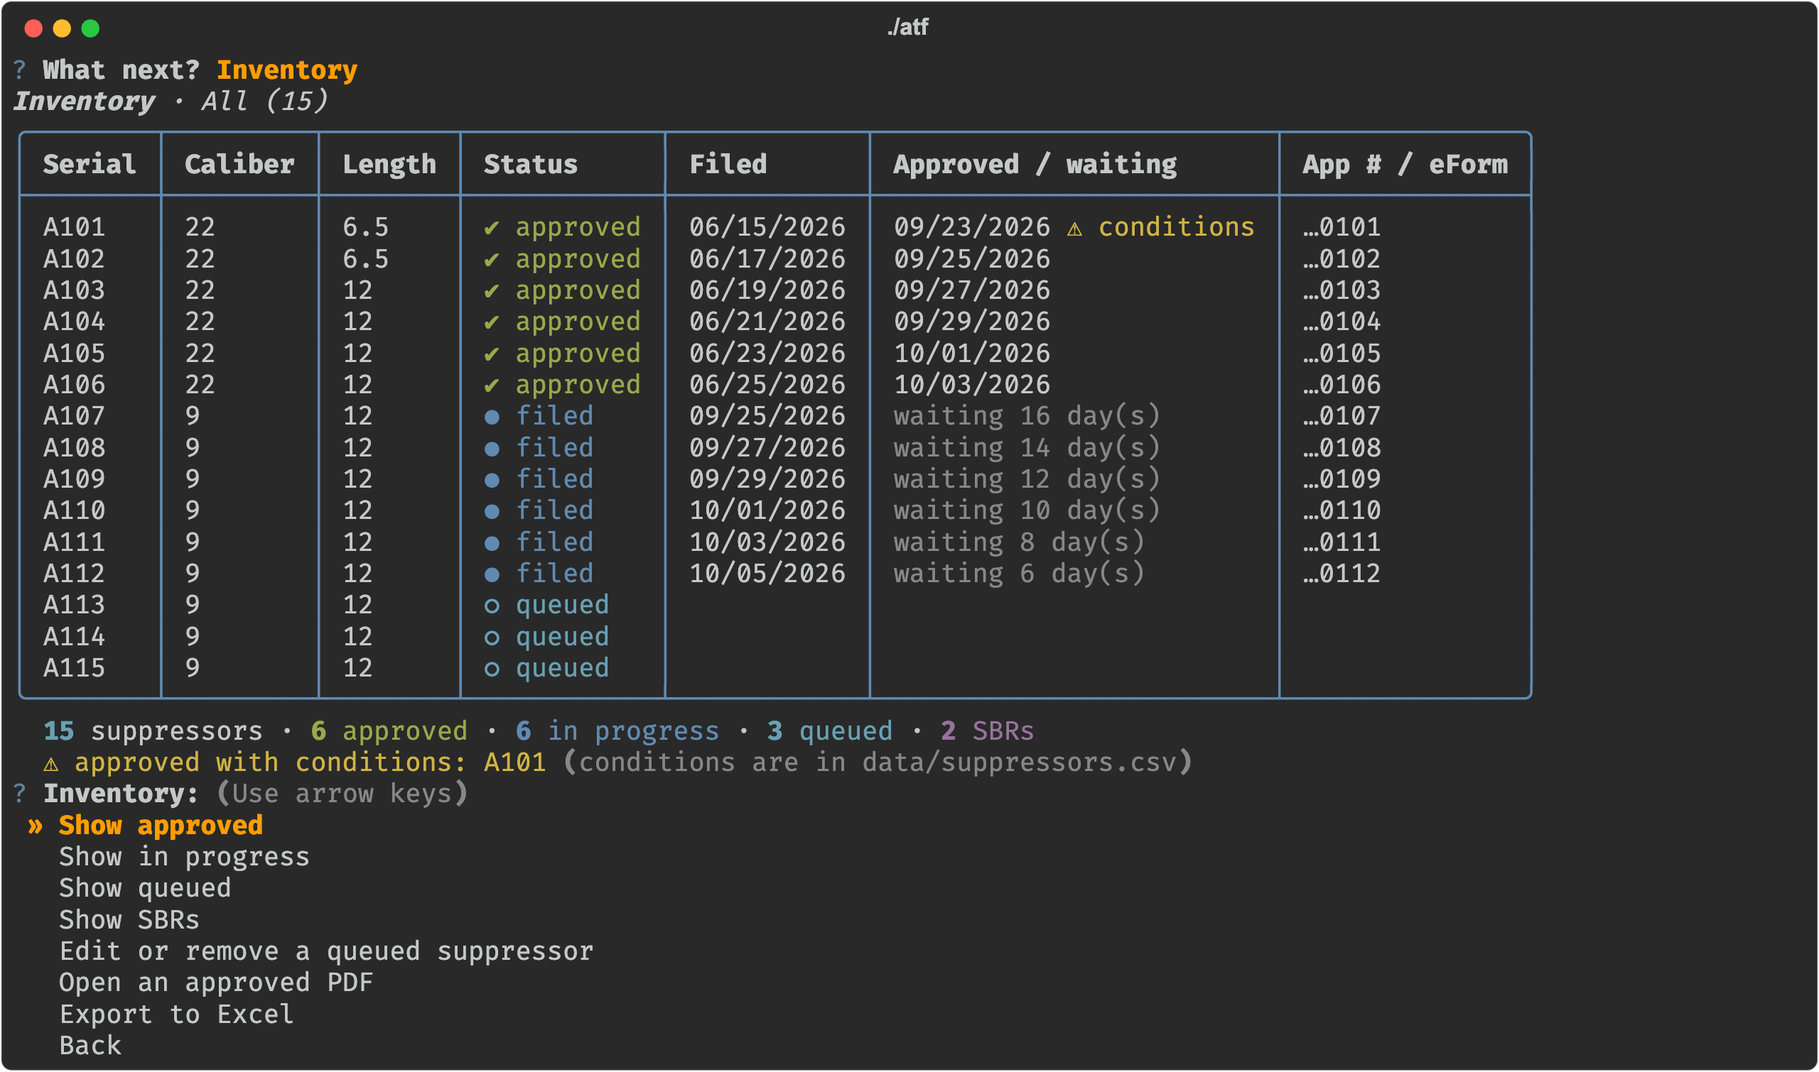
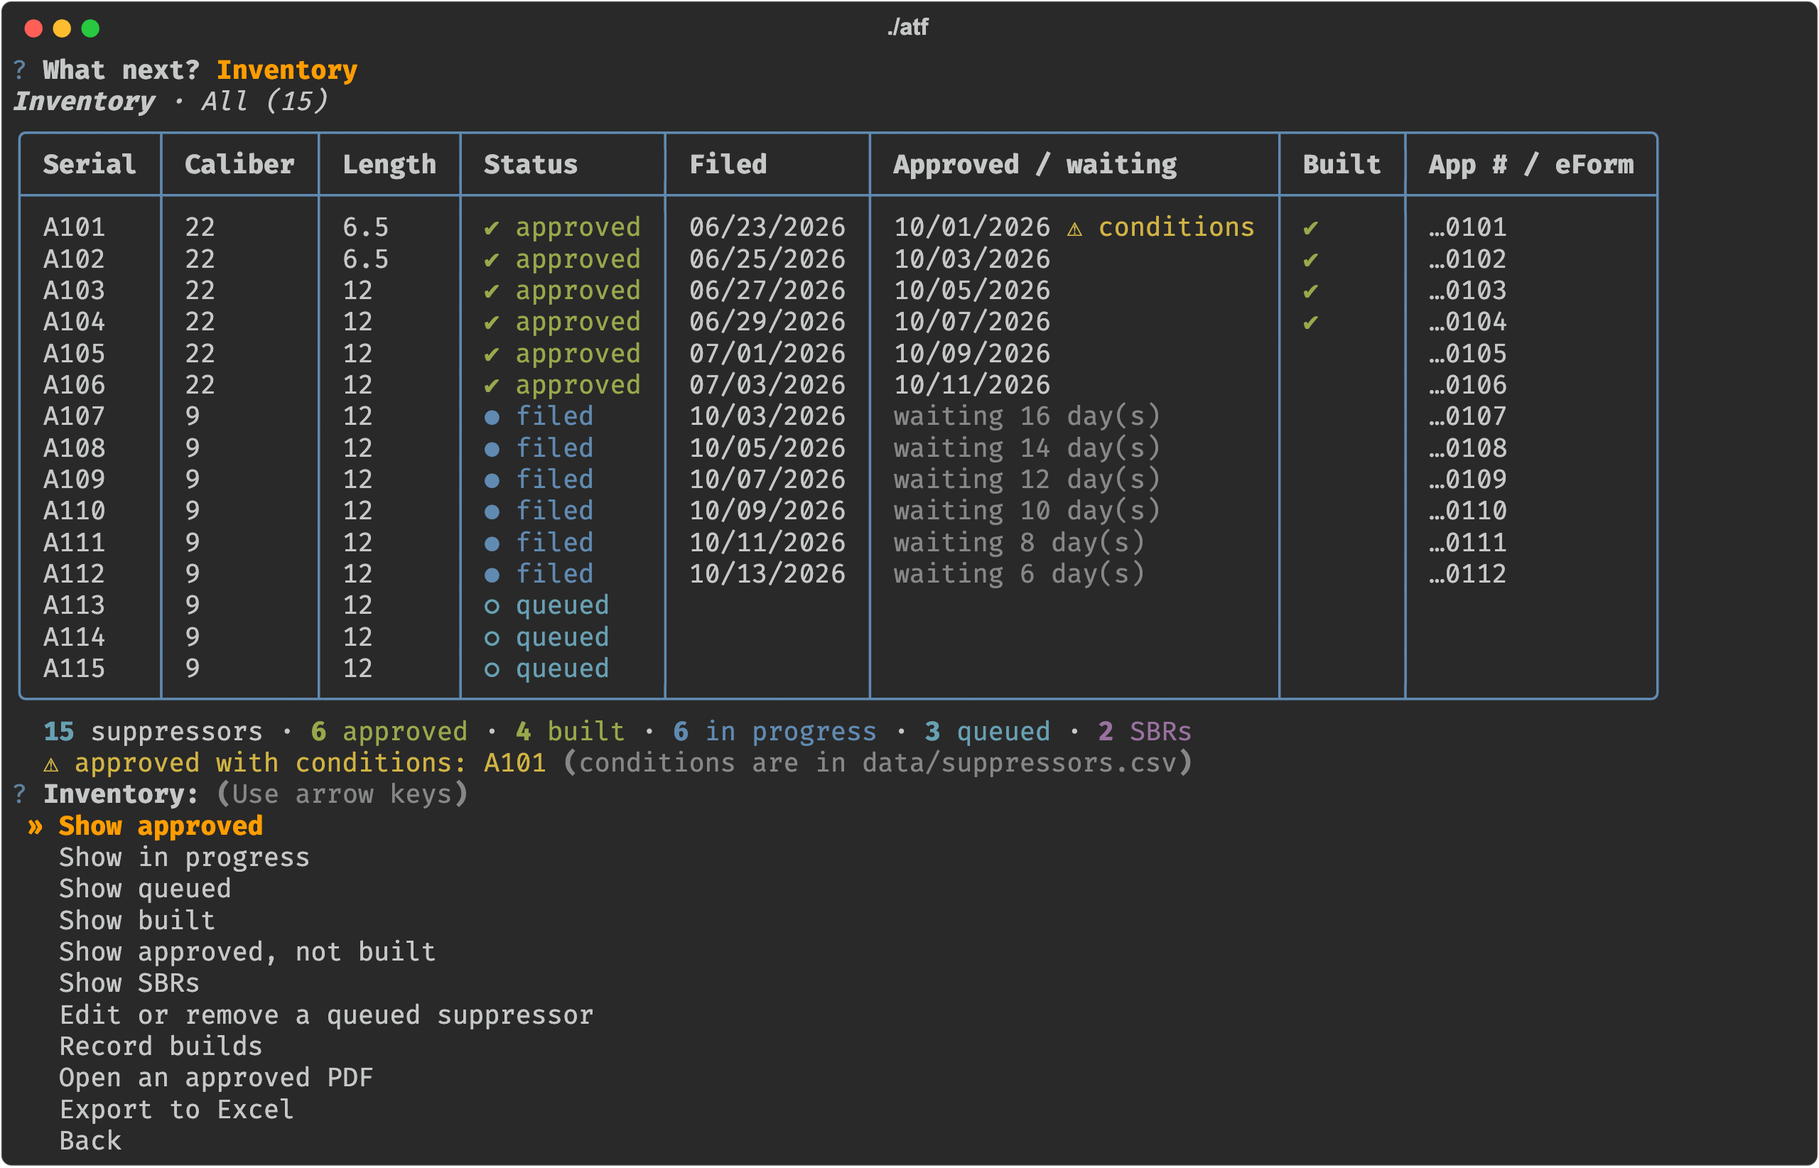
Track which approved suppressors are built and what each one is
- Inventory columns: built ("yes" once made) and design (free text, e.g.
  "PCC Short"). Older inventories load with both empty.
- Inventory > Record builds: name serials as a range and/or list
  (A101-A110, A115) or tick them in a list, type the design, confirm. Only
  approved suppressors can be marked built. A design can be changed, or a
  build record cleared, later.
- Inventory views "Built" and "Approved, not built", a Built column, a built
  count in the summary, and Built/Design columns in the Excel export.
- Screenshots regenerated (new 10-builds.png); README and CLAUDE.md updated.

diff --git a/src/ui.py b/src/ui.py
@@ -156,8 +156,9 @@ def queue_table(rows, only=None, title=None):
 
 def summary(rows):
     n = lambda *st: sum(1 for r in rows if r["status"] in st)  # noqa: E731
-    parts = [f"[bold]{len(rows)}[/] suppressors", f"[green]{n('approved')} approved[/]", f"[blue]{n(*IN_PROGRESS)} in progress[/]",
-             f"[cyan]{n('')} queued[/]"] + ([f"[red]{n('disapproved')} disapproved[/]"] if n("disapproved") else [])
+    built = sum(1 for r in rows if atf.is_built(r))
+    parts = [f"[bold]{len(rows)}[/] suppressors", f"[green]{n('approved')} approved[/]"] + ([f"[green]{built} built[/]"] if built else []) + [
+             f"[blue]{n(*IN_PROGRESS)} in progress[/]", f"[cyan]{n('')} queued[/]"] + ([f"[red]{n('disapproved')} disapproved[/]"] if n("disapproved") else [])
     sbrs = len(atf.load_sbrs())
     return " · ".join(parts + ([f"[magenta]{sbrs} SBR{'s' if sbrs != 1 else ''}[/]"] if sbrs else []))
 
@@ -177,7 +178,7 @@ def _days(date_str):
 
 def inventory_table(rows, title):
     t = Table(box=box.ROUNDED, header_style="bold", title=title, title_justify="left", border_style="blue")
-    for col in ("Serial", "Caliber", "Length", "Status", "Filed", "Approved / waiting", "App # / eForm"):
+    for col in ("Serial", "Caliber", "Length", "Status", "Filed", "Approved / waiting", "Built", "App # / eForm"):
         t.add_column(col)
     for r in sorted(rows, key=lambda r: atf.serial_key(r["serial_number"])):
         if r["status"] == "approved":
@@ -188,7 +189,18 @@ def inventory_table(rows, title):
             when = ""
         ident = short(r["application_number"]) or (f"eForm {short(r['eform_id'])}" if r["eform_id"] else "")
         t.add_row(escape(r["serial_number"]), escape(r["caliber"]), escape(r["overall_length"]), STATUS.get(r["status"], escape(r["status"])),
-                  escape(r["filed_date"]), when, escape(ident))
+                  escape(r["filed_date"]), when, "[green]✔[/]" if atf.is_built(r) else "", escape(ident))
+    return t
+
+
+def build_table(rows, title):
+    """Approved suppressors, built or not, and what each one is (for the Built / Approved, not built views)."""
+    t = Table(box=box.ROUNDED, header_style="bold", title=title, title_justify="left", border_style="blue")
+    for col in ("Serial", "Caliber", "Length", "Approved", "Built", "Design"):
+        t.add_column(col)
+    for r in sorted(rows, key=lambda r: atf.serial_key(r["serial_number"])):
+        t.add_row(escape(r["serial_number"]), escape(r["caliber"]), escape(r["overall_length"]), escape(r["approved_date"]),
+                  "[green]✔ built[/]" if atf.is_built(r) else "[dim]not built[/]", escape(r["design"]))
     return t
 
 
@@ -213,7 +225,8 @@ def sbr_summary(sbrs):
 def inventory_flow():
     view = "all"
     filters = {"all": ("All", lambda r: True), "approved": ("Approved", lambda r: r["status"] == "approved"),
-               "progress": ("In progress", lambda r: r["status"] in IN_PROGRESS), "queued": ("Queued", lambda r: r["status"] == "")}
+               "progress": ("In progress", lambda r: r["status"] in IN_PROGRESS), "queued": ("Queued", lambda r: r["status"] == ""),
+               "built": ("Built", atf.is_built), "unbuilt": ("Approved, not built", lambda r: r["status"] == "approved" and not atf.is_built(r))}
     while True:
         rows = atf.load_rows()
         con.clear()
@@ -225,7 +238,8 @@ def inventory_flow():
         else:
             name, keep = filters[view]
             shown = [r for r in rows if keep(r)]
-            con.print(inventory_table(shown, f"[bold]Inventory[/] · {name} ({len(shown)})"))
+            table = build_table if view in ("built", "unbuilt") else inventory_table
+            con.print(table(shown, f"[bold]Inventory[/] · {name} ({len(shown)})"))
             con.print(f"  {summary(rows)}")
             cond = [r["serial_number"] for r in shown if r["status"] == "approved" and r["conditions"]]
             where = "data/suppressors.csv"
@@ -237,6 +251,7 @@ def inventory_flow():
         if any(r["status"] == "" for r in rows):
             choices.append(questionary.Choice("Edit or remove a queued suppressor", edit_queued_flow))
         if any(r["status"] == "approved" for r in rows):
+            choices.append(questionary.Choice("Record builds", builds_flow))
             choices.append(questionary.Choice("Open an approved PDF", open_approved_flow))
         choices.append(questionary.Choice("Export to Excel", export_flow))
         what = questionary.select("Inventory:", choices=choices + [questionary.Choice("Back", "back")]).ask()
@@ -296,6 +311,74 @@ def edit_queued_flow():
     atf.save_rows(rows)
     con.print(f"  [green]✔[/] Updated {escape(r['serial_number'])}")
     pause()
+
+
+def _ask_design(default=""):
+    """What it is (e.g. "PCC Short"), typed each time. Returns the text, or None if cancelled."""
+    v = questionary.text("Design (what it is, e.g. PCC Short):", default=default).ask()
+    return None if v is None else v.strip()
+
+
+def builds_flow():
+    """Record which approved suppressors are built and what each one is. Only approved rows can be marked built."""
+    rows = atf.load_rows()
+    todo = [r for r in rows if r["status"] == "approved" and not atf.is_built(r)]
+    built = [r for r in rows if atf.is_built(r)]
+    choices = ([questionary.Choice(f"Record builds ({len(todo)} approved, not built yet)", "new")] if todo else []) + (
+        [questionary.Choice("Change or clear a build record", "change")] if built else []) + [questionary.Choice("Back", "back")]
+    what = questionary.select("Builds:", choices=choices).ask()
+    if what == "new":
+        _record_builds(todo)
+    elif what == "change":
+        _change_build(built)
+
+
+def _record_builds(todo):
+    todo = sorted(todo, key=lambda r: atf.serial_key(r["serial_number"]))
+    spec = questionary.text("Which serials? A range and/or list (e.g. A101-A110, A115), or empty to pick from a list:",
+                            validate=lambda v: not v.strip() or not atf.serials_in(v, todo)[1]
+                            or "; ".join(atf.serials_in(v, todo)[1]) + " (approved, not built yet)").ask()
+    if spec is None:
+        return
+    if spec.strip():
+        serials = atf.serials_in(spec, todo)[0]
+    else:
+        serials = questionary.checkbox("Built (space to tick, Enter to continue):", choices=[
+            questionary.Choice(f"{r['serial_number']}  (caliber {r['caliber']}, {r['overall_length'] or '?'}\", approved {r['approved_date']})",
+                               r["serial_number"]) for r in todo]).ask()
+    if not serials:
+        return
+    design = _ask_design()
+    if design is None:
+        return
+    names = serials[0] + (f" – {serials[-1]}" if len(serials) > 1 else "")
+    if not questionary.confirm(f"Record {len(serials)} as built ({names})" + (f": {design}" if design else "") + "?", default=True).ask():
+        return
+    atf.record_build(serials, design)
+    con.print(f"  [green]✔[/] Recorded {len(serials)} as built: {escape(', '.join(serials))}")
+    pause()
+
+
+def _change_build(built):
+    built = sorted(built, key=lambda r: atf.serial_key(r["serial_number"]))
+    r = questionary.select("Which one?", choices=[questionary.Choice(
+        f"{r['serial_number']}  ({r['design'] or 'built'})", r) for r in built]
+        + [questionary.Choice("Back", "back")]).ask()
+    if r in (None, "back"):
+        return
+    what = questionary.select(f"{r['serial_number']}:", choices=[questionary.Choice("Change the design", "edit"),
+                              questionary.Choice("Clear it (not built)", "clear"), questionary.Choice("Back", "back")]).ask()
+    if what == "clear":
+        if questionary.confirm(f"Clear the build record of {r['serial_number']}?", default=False).ask():
+            atf.clear_build(r["serial_number"])
+            con.print(f"  [green]✔[/] {escape(r['serial_number'])} is no longer marked built")
+            pause()
+    elif what == "edit":
+        design = _ask_design(r["design"])
+        if design is not None:
+            atf.record_build([r["serial_number"]], design)
+            con.print(f"  [green]✔[/] Updated {escape(r['serial_number'])}")
+            pause()
 
 
 def open_approved_flow():

diff --git a/src/atf.py b/src/atf.py
@@ -63,9 +63,11 @@ def load_mapping():
 # ---------- Inventory (data/suppressors.csv: one row per suppressor, queued -> filed -> approved) ----------
 SUPP = DATA / "suppressors.csv"
 COLS = ["caliber", "serial_number", "overall_length", "status", "application_number", "filed_date", "approved_date",
-        "eform_id", "control_number", "conditions"]
+        "eform_id", "control_number", "conditions", "built", "design"]
 # overall_length: inches, per suppressor (empty = the settings default, firearm.overall_length, is used and then recorded)
 # status: "" queued | pending (Sign & Submit clicked, confirmation never read) | filed | approved | disapproved
+# built: "yes" once made ("" = not yet; only approved rows are ever marked built, see record_build).
+# design: what it is, free text (e.g. "PCC Short").
 
 
 def load_rows():
@@ -76,6 +78,52 @@ def load_rows():
             r[c] = (r.get(c) or "").strip()
         r["status"] = r["status"].lower()
     return rows
+
+
+def is_built(row):
+    return row.get("built", "").lower() == "yes"
+
+
+def record_build(serials, design=""):
+    """Mark suppressors as built, with what they are (or change the design of built ones). Only APPROVED rows: a Form 1
+    must be approved before the suppressor is made. Returns the serials updated; raises ValueError if any serial is
+    unknown or not approved (then nothing is saved)."""
+    rows = load_rows()
+    by = {r["serial_number"].upper(): r for r in rows}
+    bad = [s for s in serials if (by.get(s.upper()) or {}).get("status") != "approved"]
+    if bad:
+        raise ValueError(f"not approved (or not in the inventory): {', '.join(bad)}")
+    for s in serials:
+        by[s.upper()].update(built="yes", design=design.strip())
+    save_rows(rows)
+    return list(serials)
+
+
+def clear_build(serial):
+    """Undo a build record (marked built by mistake)."""
+    rows = load_rows()
+    for r in rows:
+        if r["serial_number"].upper() == serial.upper():
+            r.update(built="", design="")
+    save_rows(rows)
+
+
+def serials_in(spec, rows):
+    """Serials named by `spec` ("A101-A110, A115"): single serials and inclusive ranges in natural order, among `rows`.
+    Returns (serials in serial order, problems)."""
+    names = {r["serial_number"].upper(): r["serial_number"] for r in rows}
+    out, problems = set(), []
+    for part in filter(None, (p.strip() for p in spec.split(","))):
+        m = re.fullmatch(r"(\S+?)\s*(?:-|–|to)\s*(\S+)", part) if part.upper() not in names else None
+        if m:
+            lo, hi = sorted((serial_key(m[1]), serial_key(m[2])))
+            hits = [n for n in names.values() if lo <= serial_key(n) <= hi and re.sub(r"\d", "", n).upper() == re.sub(r"\d", "", m[1]).upper()]
+            out.update(hits) if hits else problems.append(f"nothing in {part}")
+        elif part.upper() in names:
+            out.add(names[part.upper()])
+        else:
+            problems.append(f"{part} isn't one of them")
+    return sorted(out, key=serial_key), problems
 
 
 def serial_key(serial):
@@ -236,7 +284,7 @@ def approved_pdf_for(row):
 EXPORT_COLS = [("Serial", "serial_number", 10), ("Caliber", "caliber", 9), ("Length (in)", "overall_length", 11),
                ("Status", "status", 11), ("Filed", "filed_date", 11), ("Approved", "approved_date", 11),
                ("Conditions", "conditions", 60), ("Application #", "application_number", 14), ("eForm ID", "eform_id", 11),
-               ("Control #", "control_number", 14)]
+               ("Control #", "control_number", 14), ("Built", "built", 7), ("Design", "design", 30)]
 
 
 def export_inventory(dest=None):

diff --git a/tests/test_menu.py b/tests/test_menu.py
@@ -295,3 +295,67 @@ def test_open_sbr_pdf_and_export_sheet(configured, answers, screen, monkeypatch)
     wb = load_workbook(atf.export_inventory(atf.OUT / "inv.xlsx"))
     rows = list(wb["SBRs"].iter_rows(values_only=True))
     assert wb.sheetnames == ["Inventory", "SBRs"] and [r[0] for r in rows[1:]] == ["R2", "R10"] and rows[1][3] == 10.5
+
+
+def _approved_run():
+    """T1-T5 approved, T6 filed, T7 queued (made up)."""
+    atf.save_rows([{"serial_number": f"T{n}", "caliber": "22", "overall_length": "12", "approved_date": "10/15/2026",
+                    "status": "approved" if n <= 5 else ("filed" if n == 6 else "")} for n in range(1, 8)])
+
+
+def test_record_builds_by_range(configured, answers, screen):
+    _approved_run()
+    seen = {}
+
+    def spec(kw):
+        seen["bad"] = kw["validate"]("T1-T3, T6")              # T6 is only filed: can't be built yet
+        return "T1-T3, T5"
+    answers(pick("Inventory"), pick("Record builds"), pick("Record builds (5 approved"), spec, "PCC Short", True, "back", QUIT)
+    ui.menu()
+    rows = {r["serial_number"]: r for r in atf.load_rows()}
+    assert seen["bad"] == "T6 isn't one of them (approved, not built yet)"
+    assert [s for s, r in rows.items() if atf.is_built(r)] == ["T1", "T2", "T3", "T5"]
+    assert (rows["T2"]["built"], rows["T2"]["design"]) == ("yes", "PCC Short")
+    assert rows["T4"]["built"] == "" and rows["T6"]["built"] == ""
+    assert "Recorded 4 as built: T1, T2, T3, T5" in screen.getvalue()
+
+
+def test_record_build_from_the_list(configured, answers, screen):
+    _approved_run()
+    atf.record_build(["T1", "T2", "T3"], "PCC Short")
+    answers(pick("Inventory"), pick("Record builds"), pick("Record builds"), "", lambda kw: ["T4"], "Rimfire 12in", True,
+            pick("Show built"), "back", QUIT)
+    ui.menu()
+    rows = {r["serial_number"]: r for r in atf.load_rows()}
+    assert rows["T4"]["design"] == "Rimfire 12in" and rows["T1"]["design"] == "PCC Short"
+    out = screen.getvalue()
+    assert "Inventory · Built (4)" in out and "4 built" in out
+
+
+def test_change_and_clear_build(configured, answers, screen):
+    _approved_run()
+    atf.record_build(["T1", "T2"], "A")
+    answers(pick("Inventory"), pick("Record builds"), pick("Change or clear"), pick("T1"), "edit", "PCC Short",
+            pick("Record builds"), pick("Change or clear"), pick("T2"), "clear", True, "back", QUIT)
+    ui.menu()
+    rows = {r["serial_number"]: r for r in atf.load_rows()}
+    assert (rows["T1"]["built"], rows["T1"]["design"]) == ("yes", "PCC Short")
+    assert not atf.is_built(rows["T2"]) and rows["T2"]["design"] == ""
+
+
+def test_only_approved_can_be_built(configured):
+    _approved_run()
+    with pytest.raises(ValueError, match="not approved .*: T6, T7, T99"):
+        atf.record_build(["T1", "T6", "T7", "T99"], "A")
+    assert not any(atf.is_built(r) for r in atf.load_rows())                    # nothing saved
+
+
+def test_export_has_build_columns(configured):
+    from openpyxl import load_workbook
+    _approved_run()
+    atf.record_build(["T3"], "PCC Short")
+    ws = load_workbook(atf.export_inventory(atf.OUT / "inv.xlsx")).active
+    rows = list(ws.iter_rows(values_only=True))
+    i = rows[0].index("Built")
+    assert rows[0][i:i + 2] == ("Built", "Design") and rows[3][i:i + 2] == ("yes", "PCC Short")
+    assert rows[4][i:i + 2] == (None, None)

diff --git a/docs/make_screenshots.py b/docs/make_screenshots.py
@@ -64,6 +64,8 @@ def inventory():
         if n <= 106:
             r.update(status="approved", filed_date=d(320 - n * 2), approved_date=d(220 - n * 2), eform_id=f"1000{n}",
                      application_number=f"100000{n}", conditions="Mark per 27 CFR 479.102" if n == 101 else "")
+            if n <= 104:  # built (made-up design names)
+                r.update(built="yes", design="Rimfire Short" if n < 103 else "Rimfire 12in")
         elif n <= 112:
             r.update(status="filed", filed_date=d(230 - n * 2), application_number=f"100000{n}")
         else:
@@ -200,8 +202,9 @@ def shot_inventory():
     ui.con.print(ui.inventory_table(rows, f"[bold]Inventory[/] · All ({len(rows)})"))
     ui.con.print(f"  {ui.summary(rows)}")
     ui.con.print("  [yellow]⚠ approved with conditions: A101[/] [dim](conditions are in data/suppressors.csv)[/]")
-    open_select("Inventory:", ["Show approved", "Show in progress", "Show queued", "Show SBRs",
-                               "Edit or remove a queued suppressor", "Open an approved PDF", "Export to Excel", "Back"])
+    open_select("Inventory:", ["Show approved", "Show in progress", "Show queued", "Show built", "Show approved, not built",
+                               "Show SBRs", "Edit or remove a queued suppressor", "Record builds",
+                               "Open an approved PDF", "Export to Excel", "Back"])
 
 
 def shot_sbrs():
@@ -209,6 +212,14 @@ def shot_sbrs():
     answered("Inventory:", "Show SBRs")
     ui.con.print(ui.sbr_table(sbrs, f"[bold]Inventory[/] · SBRs ({len(sbrs)})"))
     ui.con.print(f"  {ui.sbr_summary(sbrs)}")
+
+
+def shot_builds():
+    answered("Inventory:", "Record builds")
+    script("new", "A105-A106", "Rimfire 12in", True)
+    ui.builds_flow()
+    rows = [r for r in atf.load_rows() if r["status"] == "approved"]
+    ui.con.print(ui.build_table(rows, f"[bold]Inventory[/] · Approved ({len(rows)})"))
 
 
 def shot_approvals():
@@ -274,7 +285,8 @@ def shot_individual():
 
 
 SHOTS = [("01-home", shot_home), ("02-add", shot_add), (None, shot_file),  # shot_file makes 03-file and 04-filing
-         ("05-inventory", shot_inventory), ("06-sbrs", shot_sbrs), ("07-approvals", shot_approvals),
+         ("05-inventory", shot_inventory), ("06-sbrs", shot_sbrs), ("10-builds", shot_builds),
+         ("07-approvals", shot_approvals),
          (None, shot_individual)]  # 08-individual-confirm, 09-individual-readback (last: it switches the settings)
 
 

diff --git a/README.md b/README.md
@@ -40,6 +40,7 @@ compares them with your records.
 
 ![Inventory](docs/screenshots/05-inventory.png)
 ![SBR inventory](docs/screenshots/06-sbrs.png)
+![Recording builds](docs/screenshots/10-builds.png)
 ![Check approvals](docs/screenshots/07-approvals.png)
 
 ## Before you start
@@ -129,8 +130,13 @@ stray keypress can't start anything). Then:
   approved ones are your record of what was submitted, so they can't be changed here.
 - **Inventory**: every suppressor in serial order (A1, A2 … A10) with caliber, length, status (queued, filed,
   approved), filed date, days waiting or approval date, and a ⚠ for approvals with conditions. Filter by Approved /
-  In progress / Queued, or **Show SBRs** for your approved SBRs. From there you can also open any approved Form 1 PDF
-  and **export to Excel** (`out/inventory_<date>.xlsx`, with an SBRs sheet). The home screen shows a one-line summary.
+  In progress / Queued / Built / Approved, not built, or **Show SBRs** for your approved SBRs. From there you can also
+  open any approved Form 1 PDF and **export to Excel** (`out/inventory_<date>.xlsx`, with an SBRs sheet). The home
+  screen shows a one-line summary.
+- **Record builds** (in Inventory): mark approved suppressors as built, with what each one is (its design, typed
+  in, e.g. "PCC Short"). Name them as a range and/or list (`A101-A110, A115`)
+  or tick them in a list. Only approved suppressors can be marked built. The design can be changed, or the build
+  record cleared, later.
 - **File N queued suppressors**: pick the rows and say whether you want to type your SSN on each form. Trusts: it
   makes each suppressor's 5320.23, dated today. One confirmation lists the batch and says whether you're filing as
   your trust or as an individual (with your saved answers to questions 11.A-11.M); confirming is your "I affirm" and

diff --git a/CLAUDE.md b/CLAUDE.md
@@ -48,7 +48,12 @@ plain CLI, kept for debugging/scripting:
   overall_length (per suppressor; empty = settings default, recorded at filing), status ("" queued | pending | filed |
   approved | disapproved; `SKIP` = never (re)filed without --force), application_number (from the filing confirmation),
   filed_date (set at Sign & Submit; `backfill_filed_dates()` from out/submissions.csv), approved_date, eform_id,
-  control_number, conditions (from approvals). `load_rows()` tolerates older files with fewer columns.
+  control_number, conditions (from approvals), built ("yes" | ""; `is_built`), design (free text: what it is, e.g.
+  "PCC Short"). Builds: `record_build` (APPROVED rows only, else ValueError and nothing saved; a Form 1 must be
+  approved before making), `clear_build`, `serials_in("A101-A110, A115")`; menu
+  Inventory > Record builds (`builds_flow`), views Built / Approved, not built (`build_table`). Deliberately NOT
+  tracked (the user's call): build date, print file, marked/engraved (markings are printed with the part). The
+  design is typed every time (no pick-from-previous list; the user asked). `load_rows()` tolerates older files with fewer columns.
   `apply_approvals(records, import_unknown)` records approvals (fills an empty length from the PDF, never overwrites
   one), optionally adds approved suppressors missing from the inventory, and then re-sorts by `serial_key` (natural
   order); sorting happens ONLY there (never during filing: file_rows holds row indices). out/submissions.csv stays a
